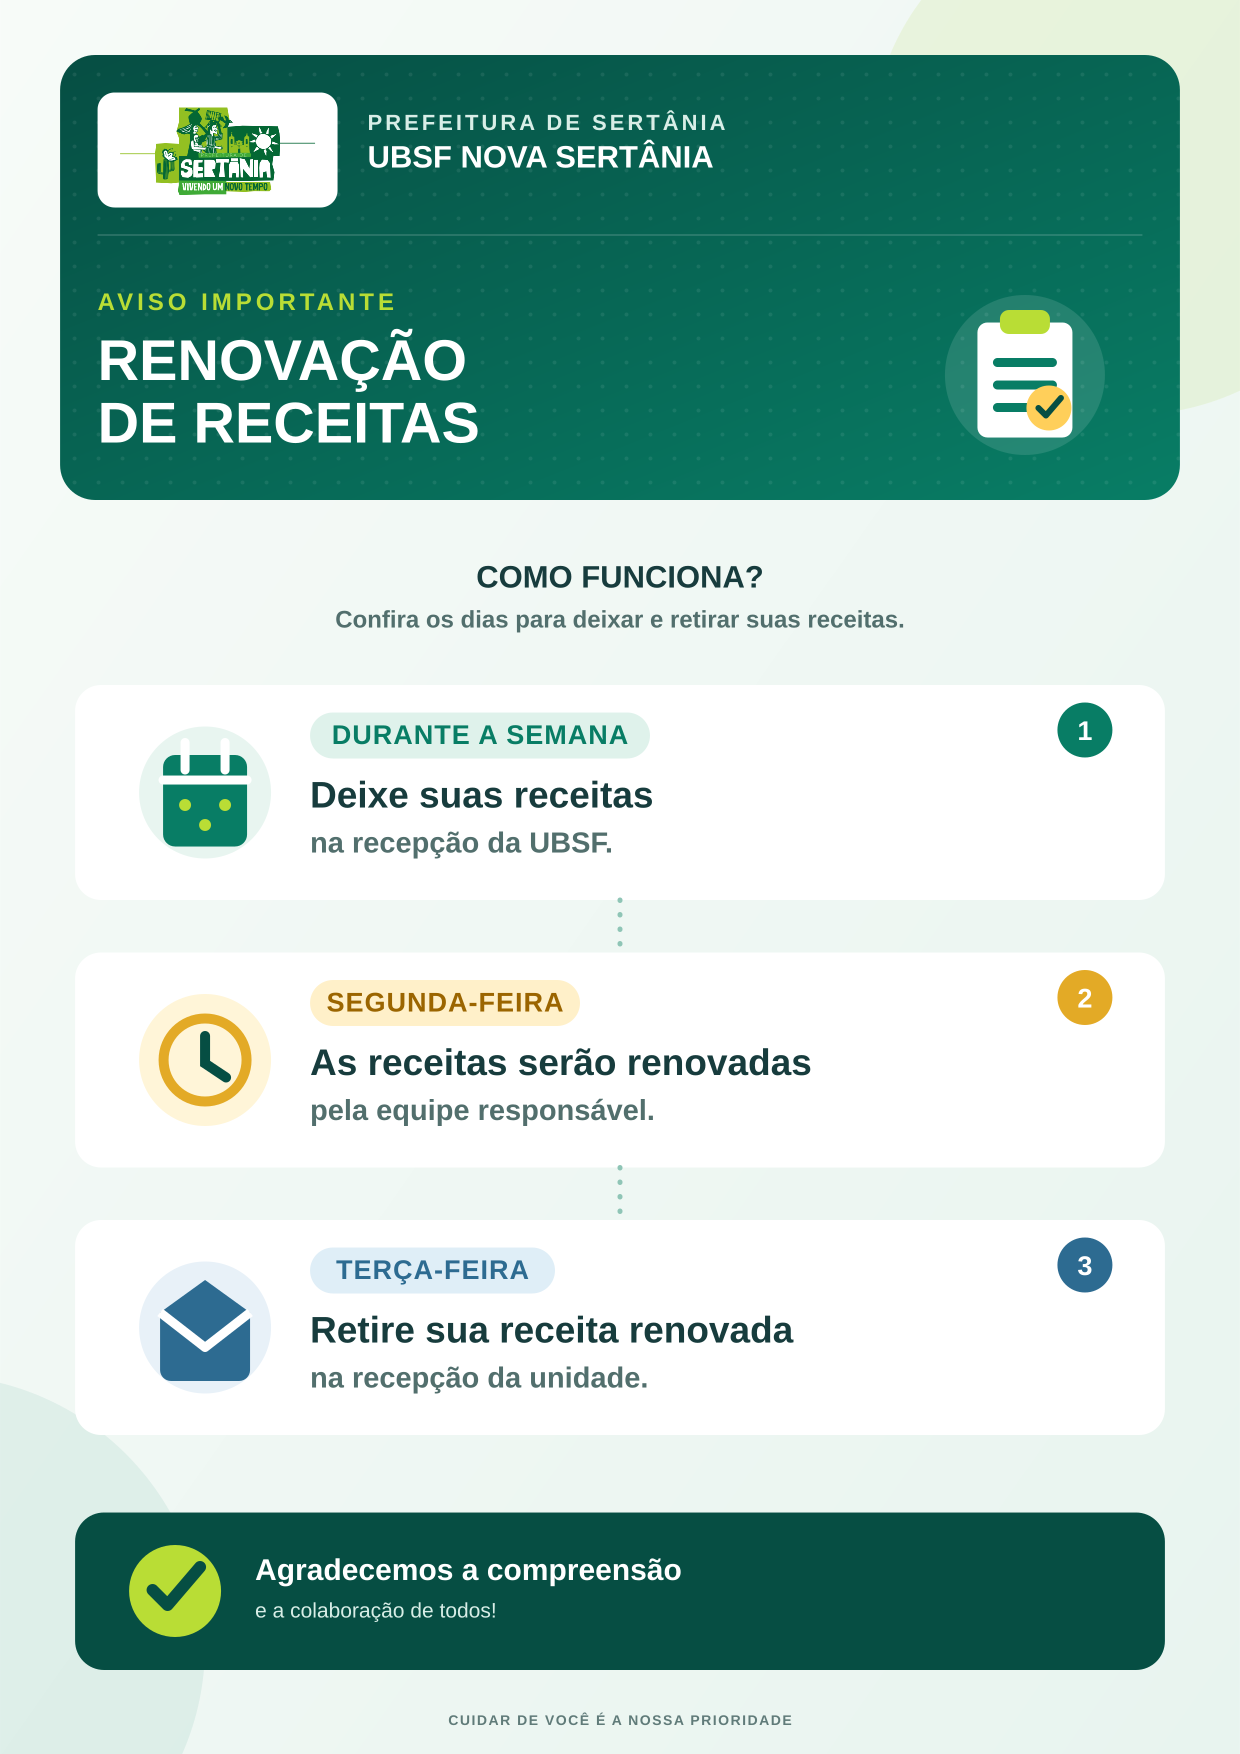
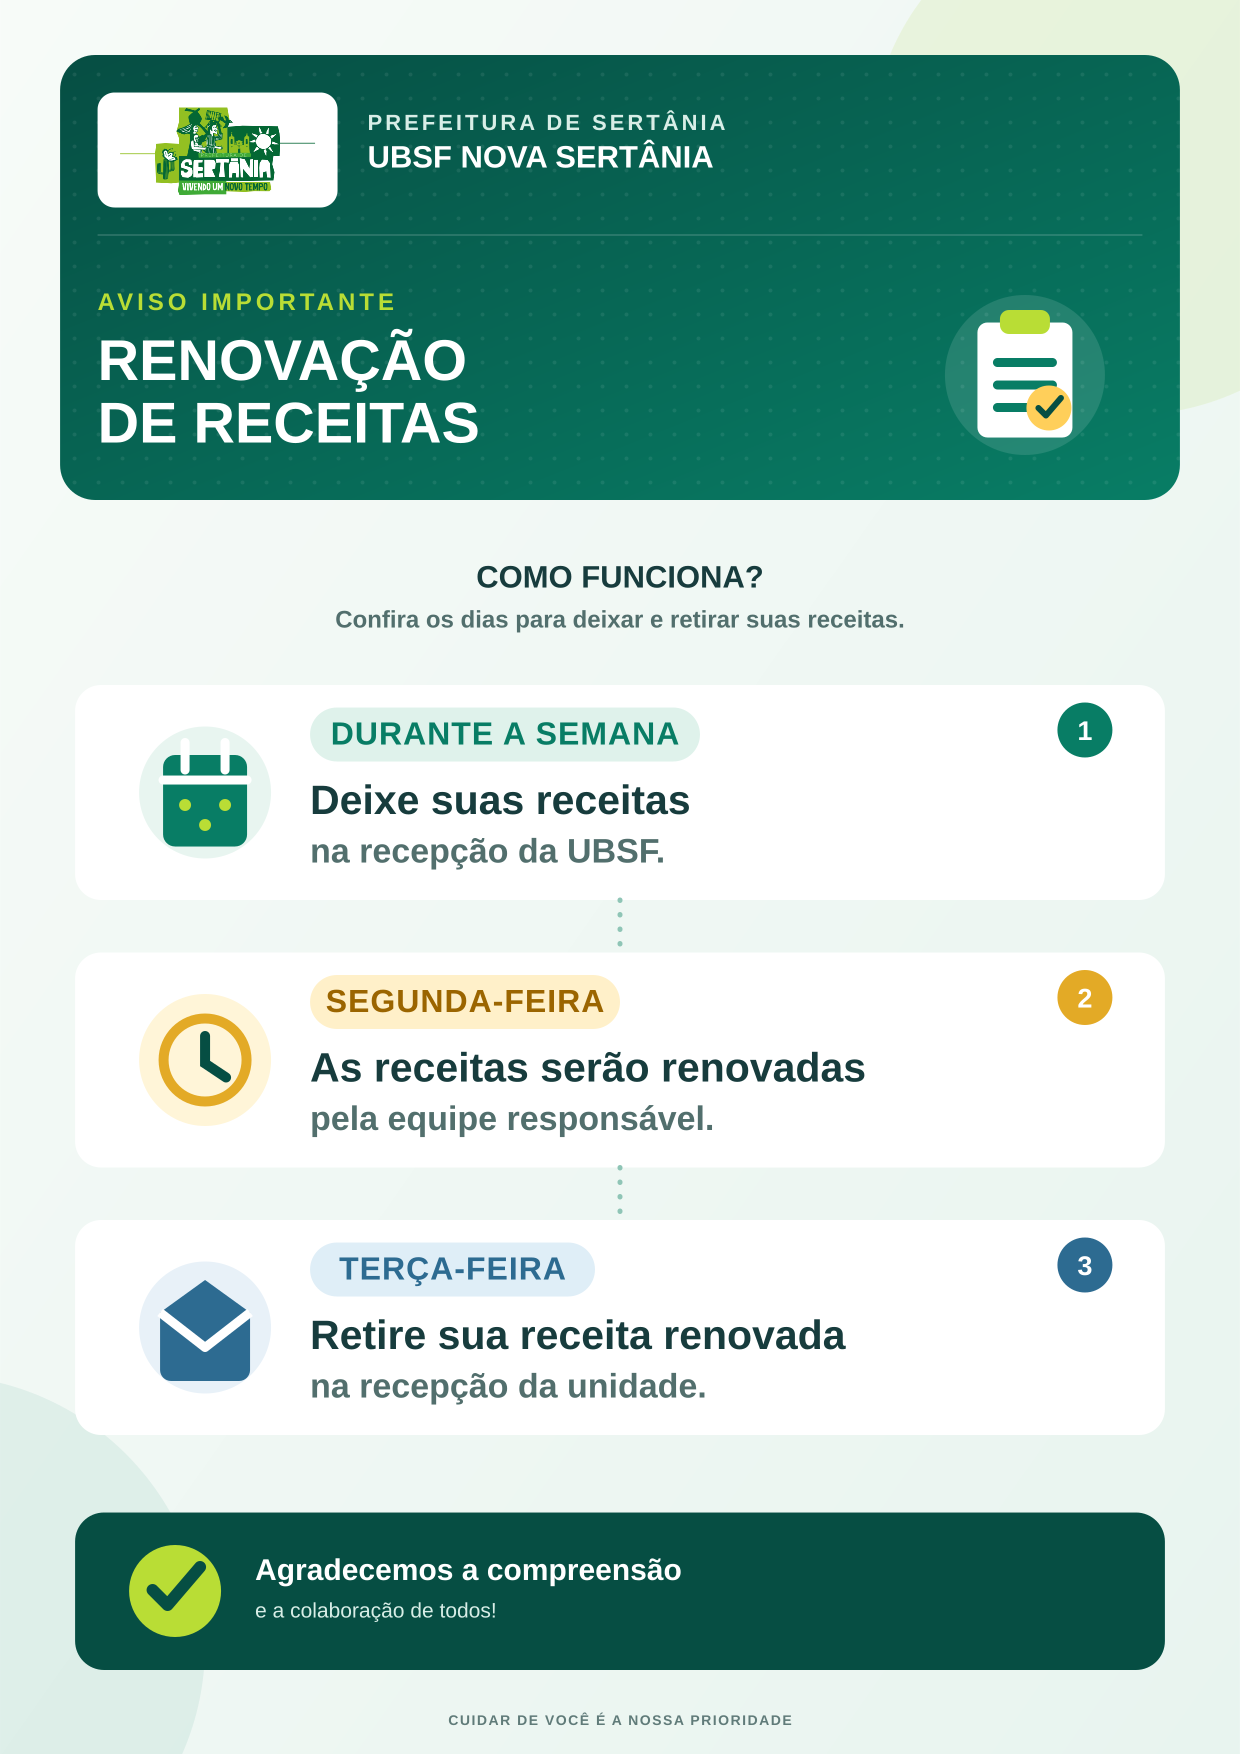
fix: ampliar novamente textos do aviso

Changed region(s): [[0.2452, 0.5542, 0.7048, 0.6465], [0.2452, 0.7081, 0.6742, 0.8005], [0.2452, 0.4002, 0.5823, 0.4926]]

diff --git a/js/app.js b/js/app.js
@@ -5,7 +5,7 @@ import {generateAttendancePdf} from './pdf.js';
 
 const supabase=createClient(SUPABASE_URL,SUPABASE_PUBLISHABLE_KEY,{auth:{persistSession:true,autoRefreshToken:true,detectSessionInUrl:false}});
 const state={session:null,employees:[],units:[],history:[],selected:new Set(),pdf:null,pdfUrl:null,busy:false};
-const NOTICES=[{title:'Renovação de receitas',description:'Orientações sobre entrega, renovação e retirada de receitas na UBSF Nova Sertânia.',image:'assets/avisos/renovacao-de-receitas.png',pdf:'assets/avisos/renovacao-de-receitas.pdf',canva:'https://www.canva.com/d/f3P56QzCsKncBJX',format:'A4 retrato'}];
+const NOTICES=[{title:'Renovação de receitas',description:'Orientações sobre entrega, renovação e retirada de receitas na UBSF Nova Sertânia.',image:'assets/avisos/renovacao-de-receitas.png',pdf:'assets/avisos/renovacao-de-receitas.pdf',canva:'https://www.canva.com/d/kThgVWHi-JgVPwJ',format:'A4 retrato'}];
 const $=selector=>document.querySelector(selector);const esc=value=>String(value??'').replace(/[&<>"']/g,c=>({'&':'&amp;','<':'&lt;','>':'&gt;','"':'&quot;',"'":'&#39;'}[c]));
 function toast(message,type='success'){const item=document.createElement('div');item.className='toast '+type;item.textContent=message;$('#toast').append(item);setTimeout(()=>item.remove(),4200);}
 function usernameEmail(username){return `${String(username).trim().toLowerCase().replace(/[^a-z0-9._-]/g,'')}@${LOGIN_DOMAIN}`;}

diff --git a/sw.js b/sw.js
@@ -1,4 +1,4 @@
-const CACHE='ubsf-nova-sertania-v4';
+const CACHE='ubsf-nova-sertania-v5';
 const ASSETS=['./','index.html','styles.css','js/app.js','js/config.js','js/model.js','js/pdf.js','assets/logo-sertania.png','assets/avisos/renovacao-de-receitas.png','assets/avisos/renovacao-de-receitas.pdf','manifest.json'];
 self.addEventListener('install',event=>event.waitUntil(caches.open(CACHE).then(cache=>cache.addAll(ASSETS)).then(()=>self.skipWaiting())));
 self.addEventListener('activate',event=>event.waitUntil(caches.keys().then(keys=>Promise.all(keys.filter(k=>k!==CACHE).map(k=>caches.delete(k)))).then(()=>self.clients.claim())));

diff --git a/index.html b/index.html
@@ -76,6 +76,6 @@
   </div>
 
   <div id="toast" class="toast-region" aria-live="polite"></div>
-  <script type="module" src="js/app.js?v=4"></script>
+  <script type="module" src="js/app.js?v=5"></script>
 </body>
 </html>
